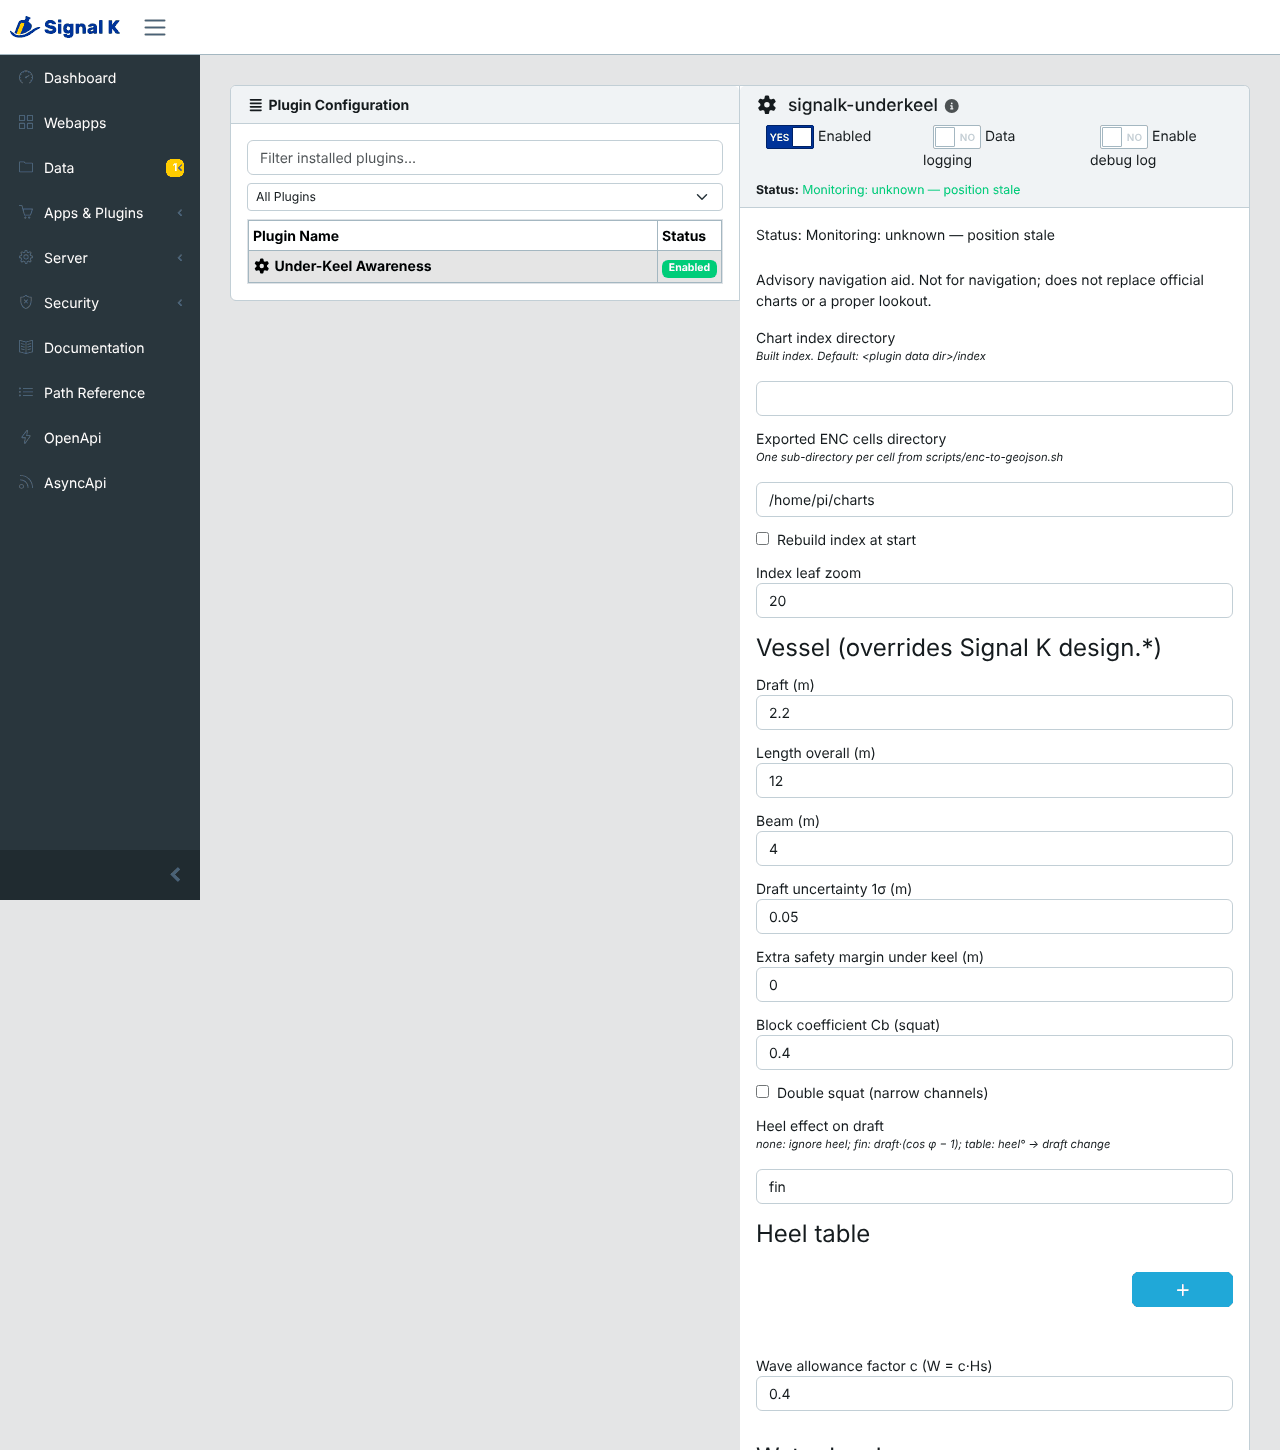
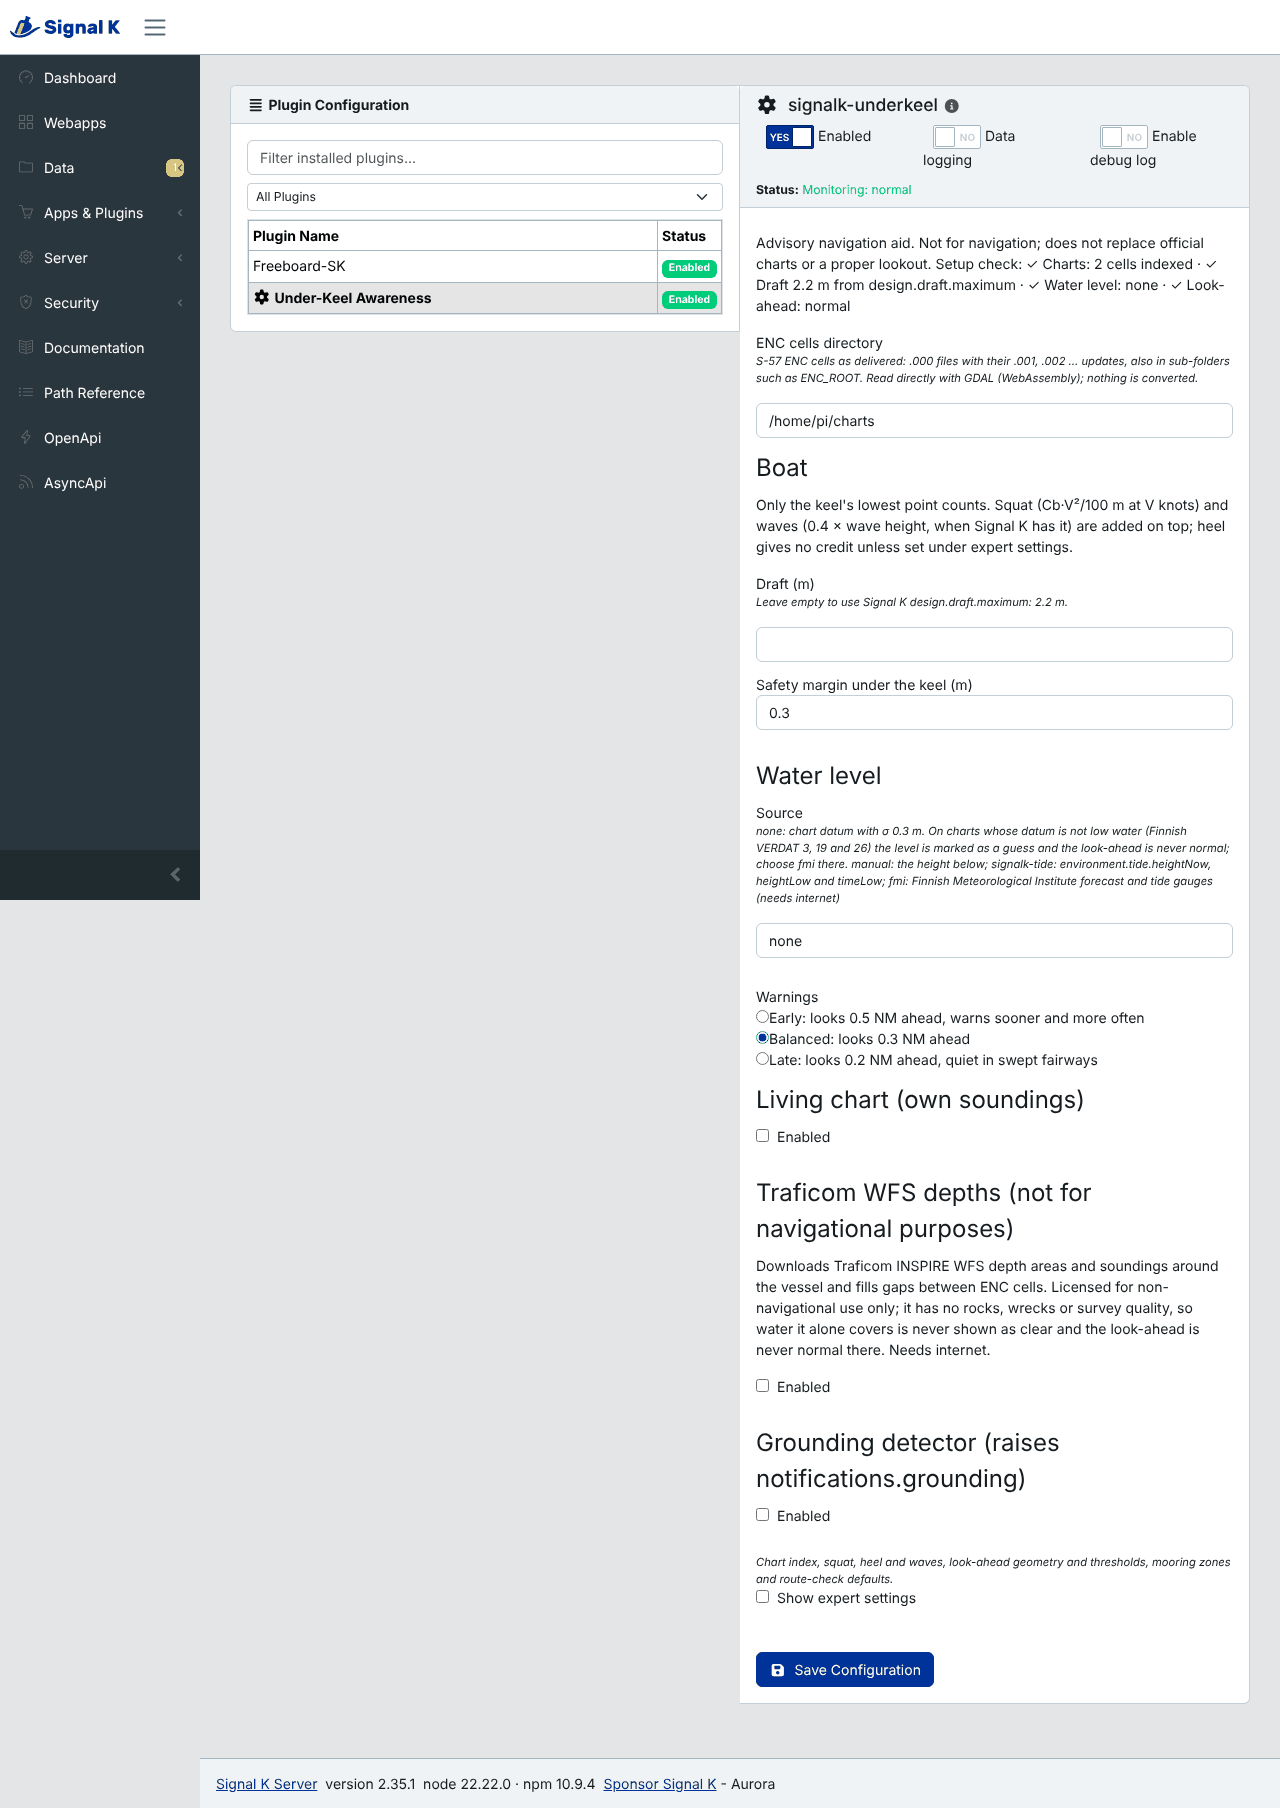
Retake the admin-page screenshots and fix stale docs lines
config.png and config-lookahead.png still showed the admin form from
before the warning styles: every field at once, and the look-ahead
fields filled in with Balanced's values. Both are retaken from
signalk-server 2.35.1 running the plugin on the synthetic test cells:
the first view with the essentials and the setup check, and the expert
look-ahead fields that are empty and follow the warning style.

README: the expert Boat row no longer says the block coefficient and
heel effect override a hull, which no longer exists; the Look-ahead row
lists the escape-heading rate of turn; public/ lists the setup steps.
HOW-IT-WORKS: the details-panel row names Open setup, and the
route-check flowchart quotes its corridor label, whose parentheses kept
the block from parsing.

Claude-Session: https://claude.ai/code/session_019coAYjPbrjGTLyXvTkhftf

diff --git a/README.md b/README.md
@@ -174,15 +174,15 @@ full depth. Under expert settings, **Heel effect on draft** can credit a fin kee
 
 Expert settings, with their defaults:
 
-| Group        | Settings                                                                                                                                                                                                                  |
-| ------------ | ------------------------------------------------------------------------------------------------------------------------------------------------------------------------------------------------------------------------- |
-| Chart index  | index directory, rebuild at start, index leaf zoom (20), box around the vessel (10 km)                                                                                                                                    |
-| Boat         | length, beam (fallback: Signal K `design.*`); draft σ (0.05 m); block coefficient and heel effect (none, fin keel or a table), which override the hull; double squat in narrow channels; wave allowance factor (0.4 × Hs) |
-| Look-ahead   | minimum horizon (60 s); position buffer (10 m, 2σ); fan spread (COG 5°, rate of turn 0.1°/s); and the distance, probabilities and windows of the warning style, each overriding the style when set                        |
-| Water level  | manual height and σ; FMI refresh (600 s); chart-datum mappings for FMI                                                                                                                                                    |
-| Route check  | planning speed (2.5 m/s), cross-track limit (30 m), accepted P(UKC < 0) (1 %)                                                                                                                                             |
-| Living chart | depth path and transducer offsets; Signal K notes for suspected shoals; CSB export metadata                                                                                                                               |
-| Other        | mooring zones (Signal K region ids); grounding detector acceleration path and threshold (2 m/s²); Traficom WFS survey quality (B) and box half-width (10 km)                                                              |
+| Group        | Settings                                                                                                                                                                                                                               |
+| ------------ | -------------------------------------------------------------------------------------------------------------------------------------------------------------------------------------------------------------------------------------- |
+| Chart index  | index directory, rebuild at start, index leaf zoom (20), box around the vessel (10 km)                                                                                                                                                 |
+| Boat         | length, beam (fallback: Signal K `design.*`); draft σ (0.05 m); block coefficient and heel effect (none, fin keel or a table); double squat in narrow channels; wave allowance factor (0.4 × Hs)                                       |
+| Look-ahead   | minimum horizon (60 s); position buffer (10 m, 2σ); fan spread (COG 5°, rate of turn 0.1°/s); escape-heading rate of turn (3°/s); and the distance, probabilities and windows of the warning style, each overriding the style when set |
+| Water level  | manual height and σ; FMI refresh (600 s); chart-datum mappings for FMI                                                                                                                                                                 |
+| Route check  | planning speed (2.5 m/s), cross-track limit (30 m), accepted P(UKC < 0) (1 %)                                                                                                                                                          |
+| Living chart | depth path and transducer offsets; Signal K notes for suspected shoals; CSB export metadata                                                                                                                                            |
+| Other        | mooring zones (Signal K region ids); grounding detector acceleration path and threshold (2 m/s²); Traficom WFS survey quality (B) and box half-width (10 km)                                                                           |
 
 The saved configuration carries a version, `configVersion`. At the first start after an update
 from a configuration without one, the plugin keeps a copy as `config-v1.json` in its data
@@ -356,17 +356,17 @@ and ESLint (`no-restricted-imports`) enforces it:
 
 ## Repository layout
 
-| Path                         | Content                                                                           |
-| ---------------------------- | --------------------------------------------------------------------------------- |
-| `src/`                       | the plugin, in TypeScript                                                         |
-| `lib/`                       | compiled output of `npm run build`; never edited, not in git                      |
-| `public/`                    | Freeboard pages: background runtime, status widget, details panel, shared helpers |
-| `schemas/navigation-safety/` | JSON Schemas of the provider-neutral navigation-safety contract (Apache-2.0)      |
-| `scripts/`                   | synthetic fixture generator, bus vendoring, release and audit checks              |
-| `fixtures/enc/`              | small synthetic cells used by the tests                                           |
-| `fixtures/s57/`              | the same synthetic cells as S-57 `.000` files, and the script that writes them    |
-| `__tests__/`                 | Jest tests, property tests, contract tests and benchmarks                         |
-| `docs/`                      | user guide, development plan, release checklist, RFC drafts                       |
+| Path                         | Content                                                                                        |
+| ---------------------------- | ---------------------------------------------------------------------------------------------- |
+| `src/`                       | the plugin, in TypeScript                                                                      |
+| `lib/`                       | compiled output of `npm run build`; never edited, not in git                                   |
+| `public/`                    | Freeboard pages: background runtime, status widget, details panel, setup steps, shared helpers |
+| `schemas/navigation-safety/` | JSON Schemas of the provider-neutral navigation-safety contract (Apache-2.0)                   |
+| `scripts/`                   | synthetic fixture generator, bus vendoring, release and audit checks                           |
+| `fixtures/enc/`              | small synthetic cells used by the tests                                                        |
+| `fixtures/s57/`              | the same synthetic cells as S-57 `.000` files, and the script that writes them                 |
+| `__tests__/`                 | Jest tests, property tests, contract tests and benchmarks                                      |
+| `docs/`                      | user guide, development plan, release checklist, RFC drafts                                    |
 
 ## Build and test
 

diff --git a/docs/HOW-IT-WORKS.md b/docs/HOW-IT-WORKS.md
@@ -651,7 +651,7 @@ each leg at the time the boat would be on it. The request fields are listed in t
 ```mermaid
 flowchart TD
   R[route] --> L[for each leg]
-  L --> C[corridor = leg ± cross-track limit 30 m<br/>+ position buffer 10 m;<br/>tiles beyond count by P × Φ(−g/σP)]
+  L --> C["corridor = leg ± cross-track limit 30 m<br/>+ position buffer 10 m;<br/>tiles beyond count by P × Φ(−g/σP)"]
   C --> W[lowest water level between<br/>arrival at the leg's start and end]
   W --> Q["highest P(UKC &lt; 0) in the corridor<br/>with squat at the leg's speed"]
   Q --> F{"corridor touches land, or<br/>P ≥ 5 × accepted P<br/>(at most 50 %, at least accepted P)?"}
@@ -777,7 +777,7 @@ chart, on the route from the Nauvo fairway west to Stenskär harbour at 7 kn, wi
 | -------------------------------------- | ----------------------------------------------------------------------------------------------------------------------------------------------------------- |
 | Layers → Charts → Plugin layers        | Under-keel look-ahead (on), Under-keel route check (on), Under-keel risk (off)                                                                              |
 | Widget grid                            | Under-keel status: state colour, minimum clearance, time to shoal and the reason                                                                            |
-| Toolbar button (boat icon), the widget | Under-keel details panel: state, water level, and a leg table per route on the chart                                                                        |
+| Toolbar button (boat icon), the widget | Under-keel details panel: state, water level, a leg table per route on the chart, and **Open setup**                                                        |
 | Hidden background page                 | refetches the envelope on each new revision (every 3 s without a Signal K stream) and checks the routes on the chart 1 s after each change and every minute |
 
 ![Freeboard: the look-ahead envelope ahead of the vessel and the status widget](images/how-it-works/freeboard-lookahead.jpg)
